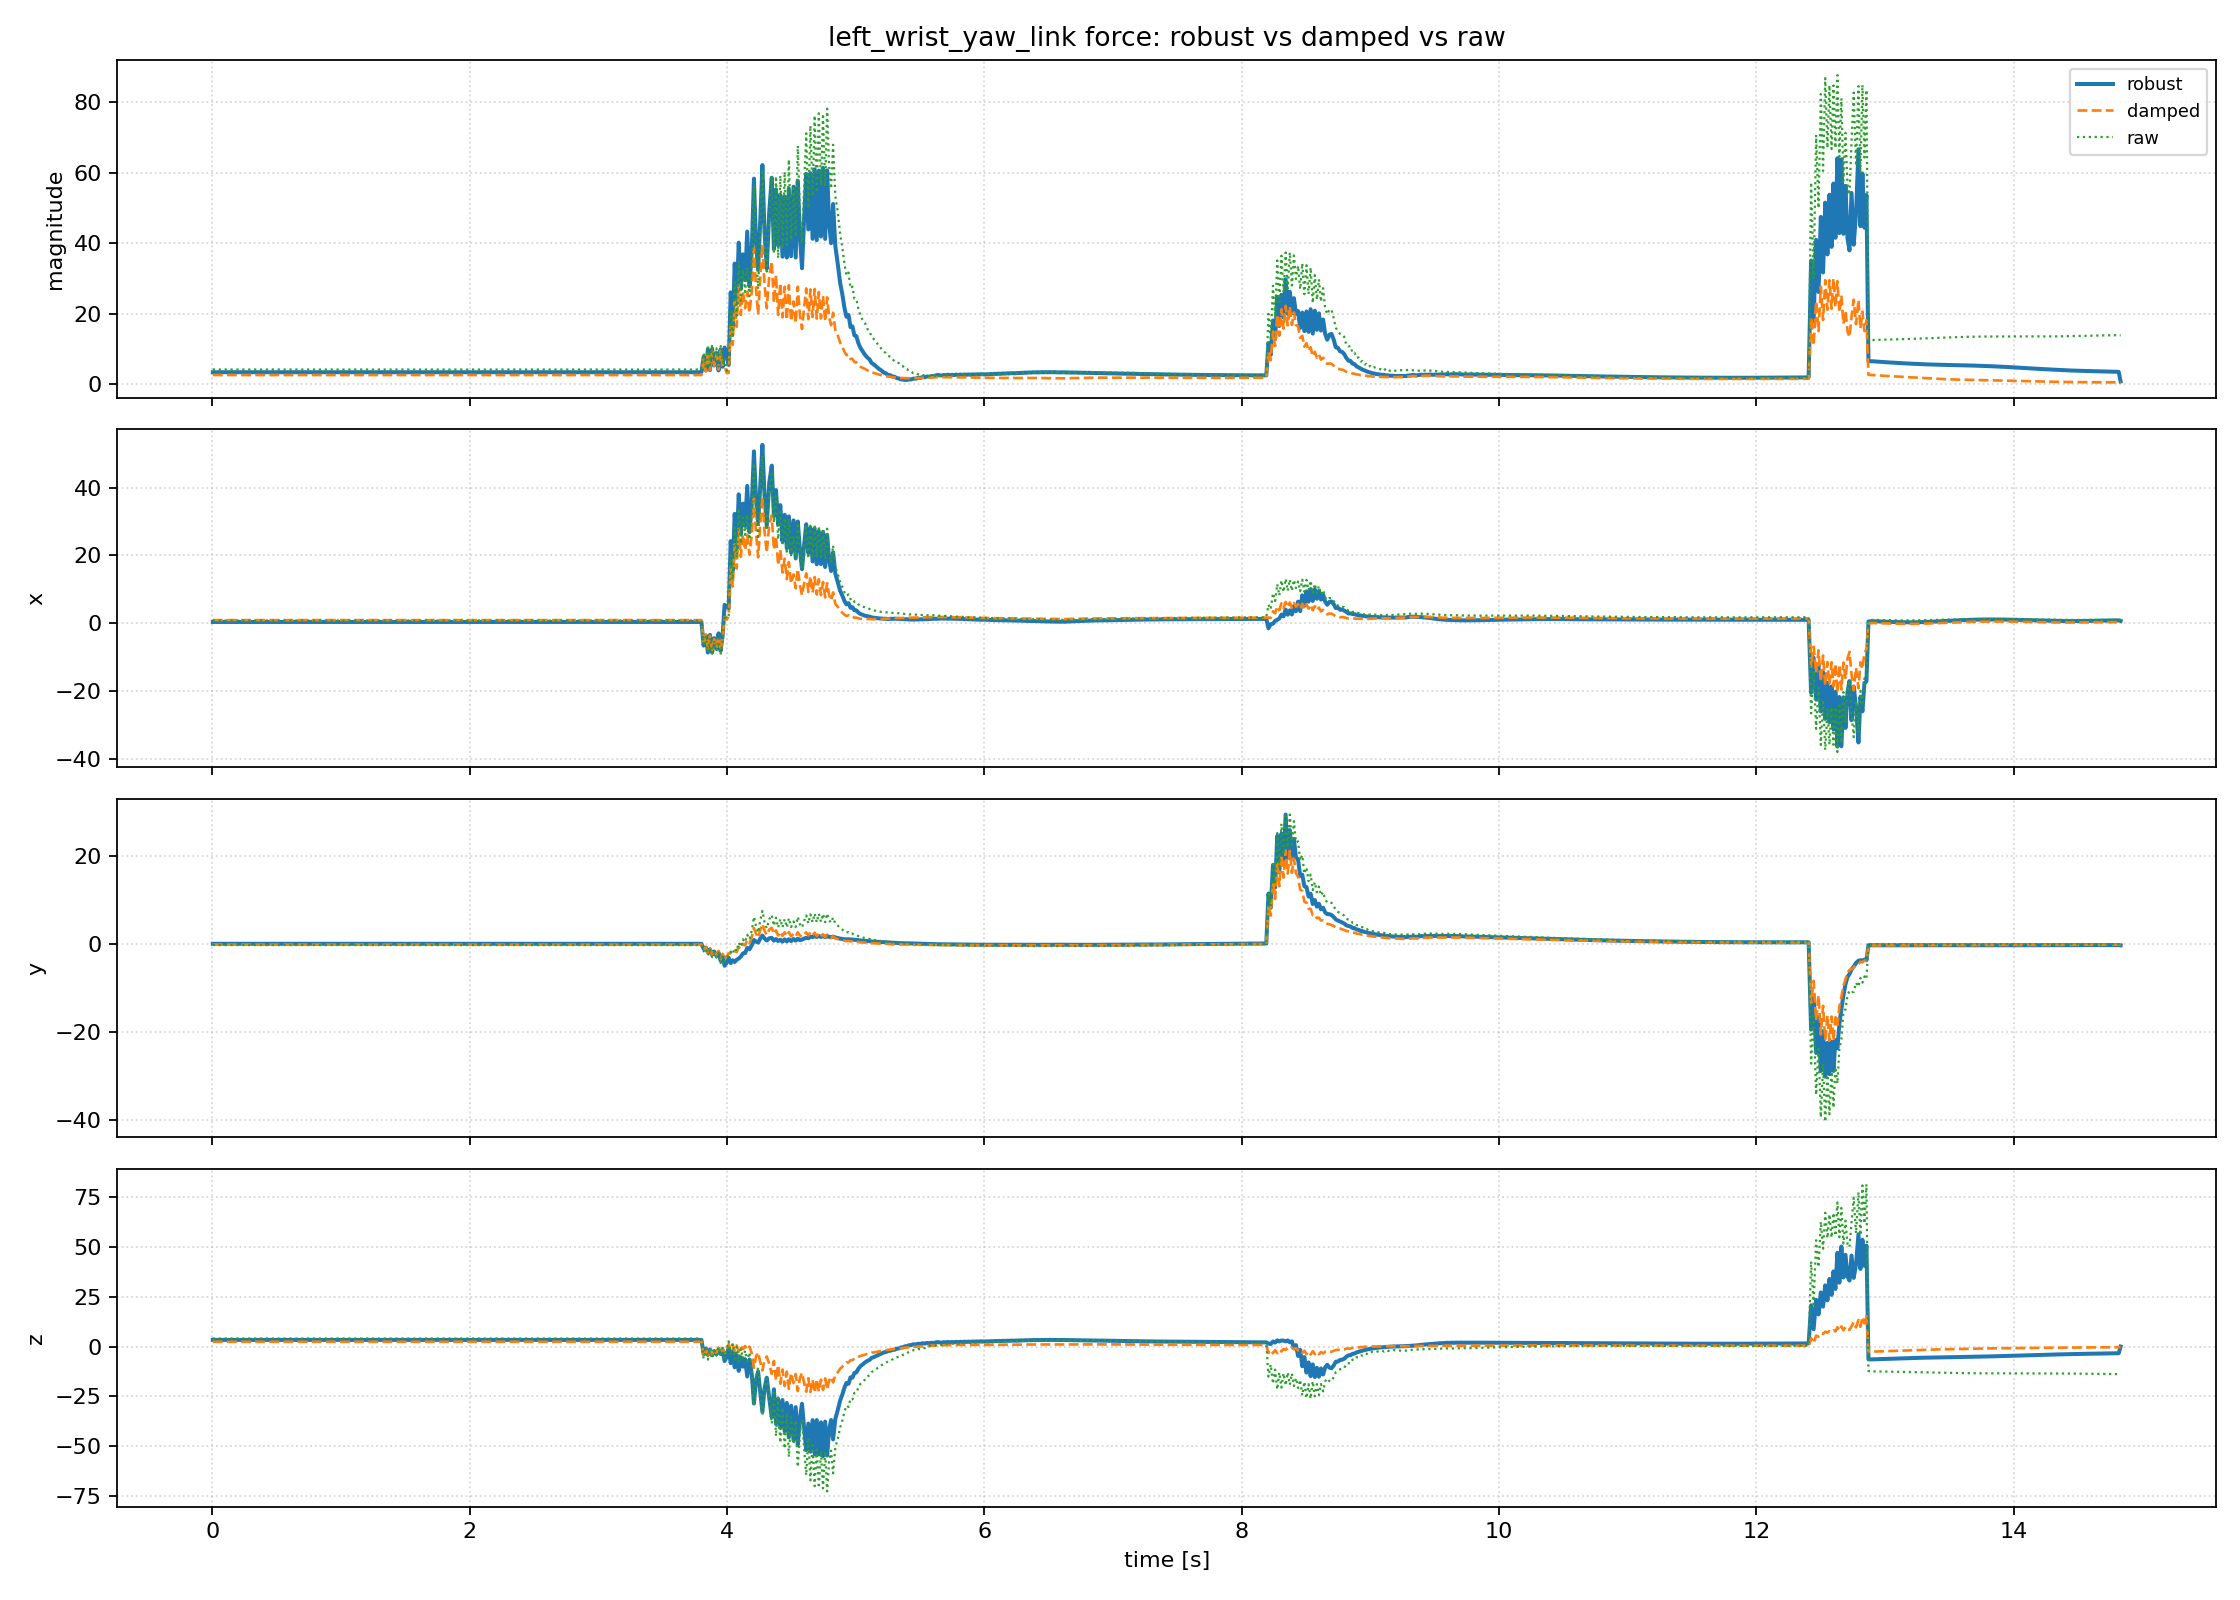
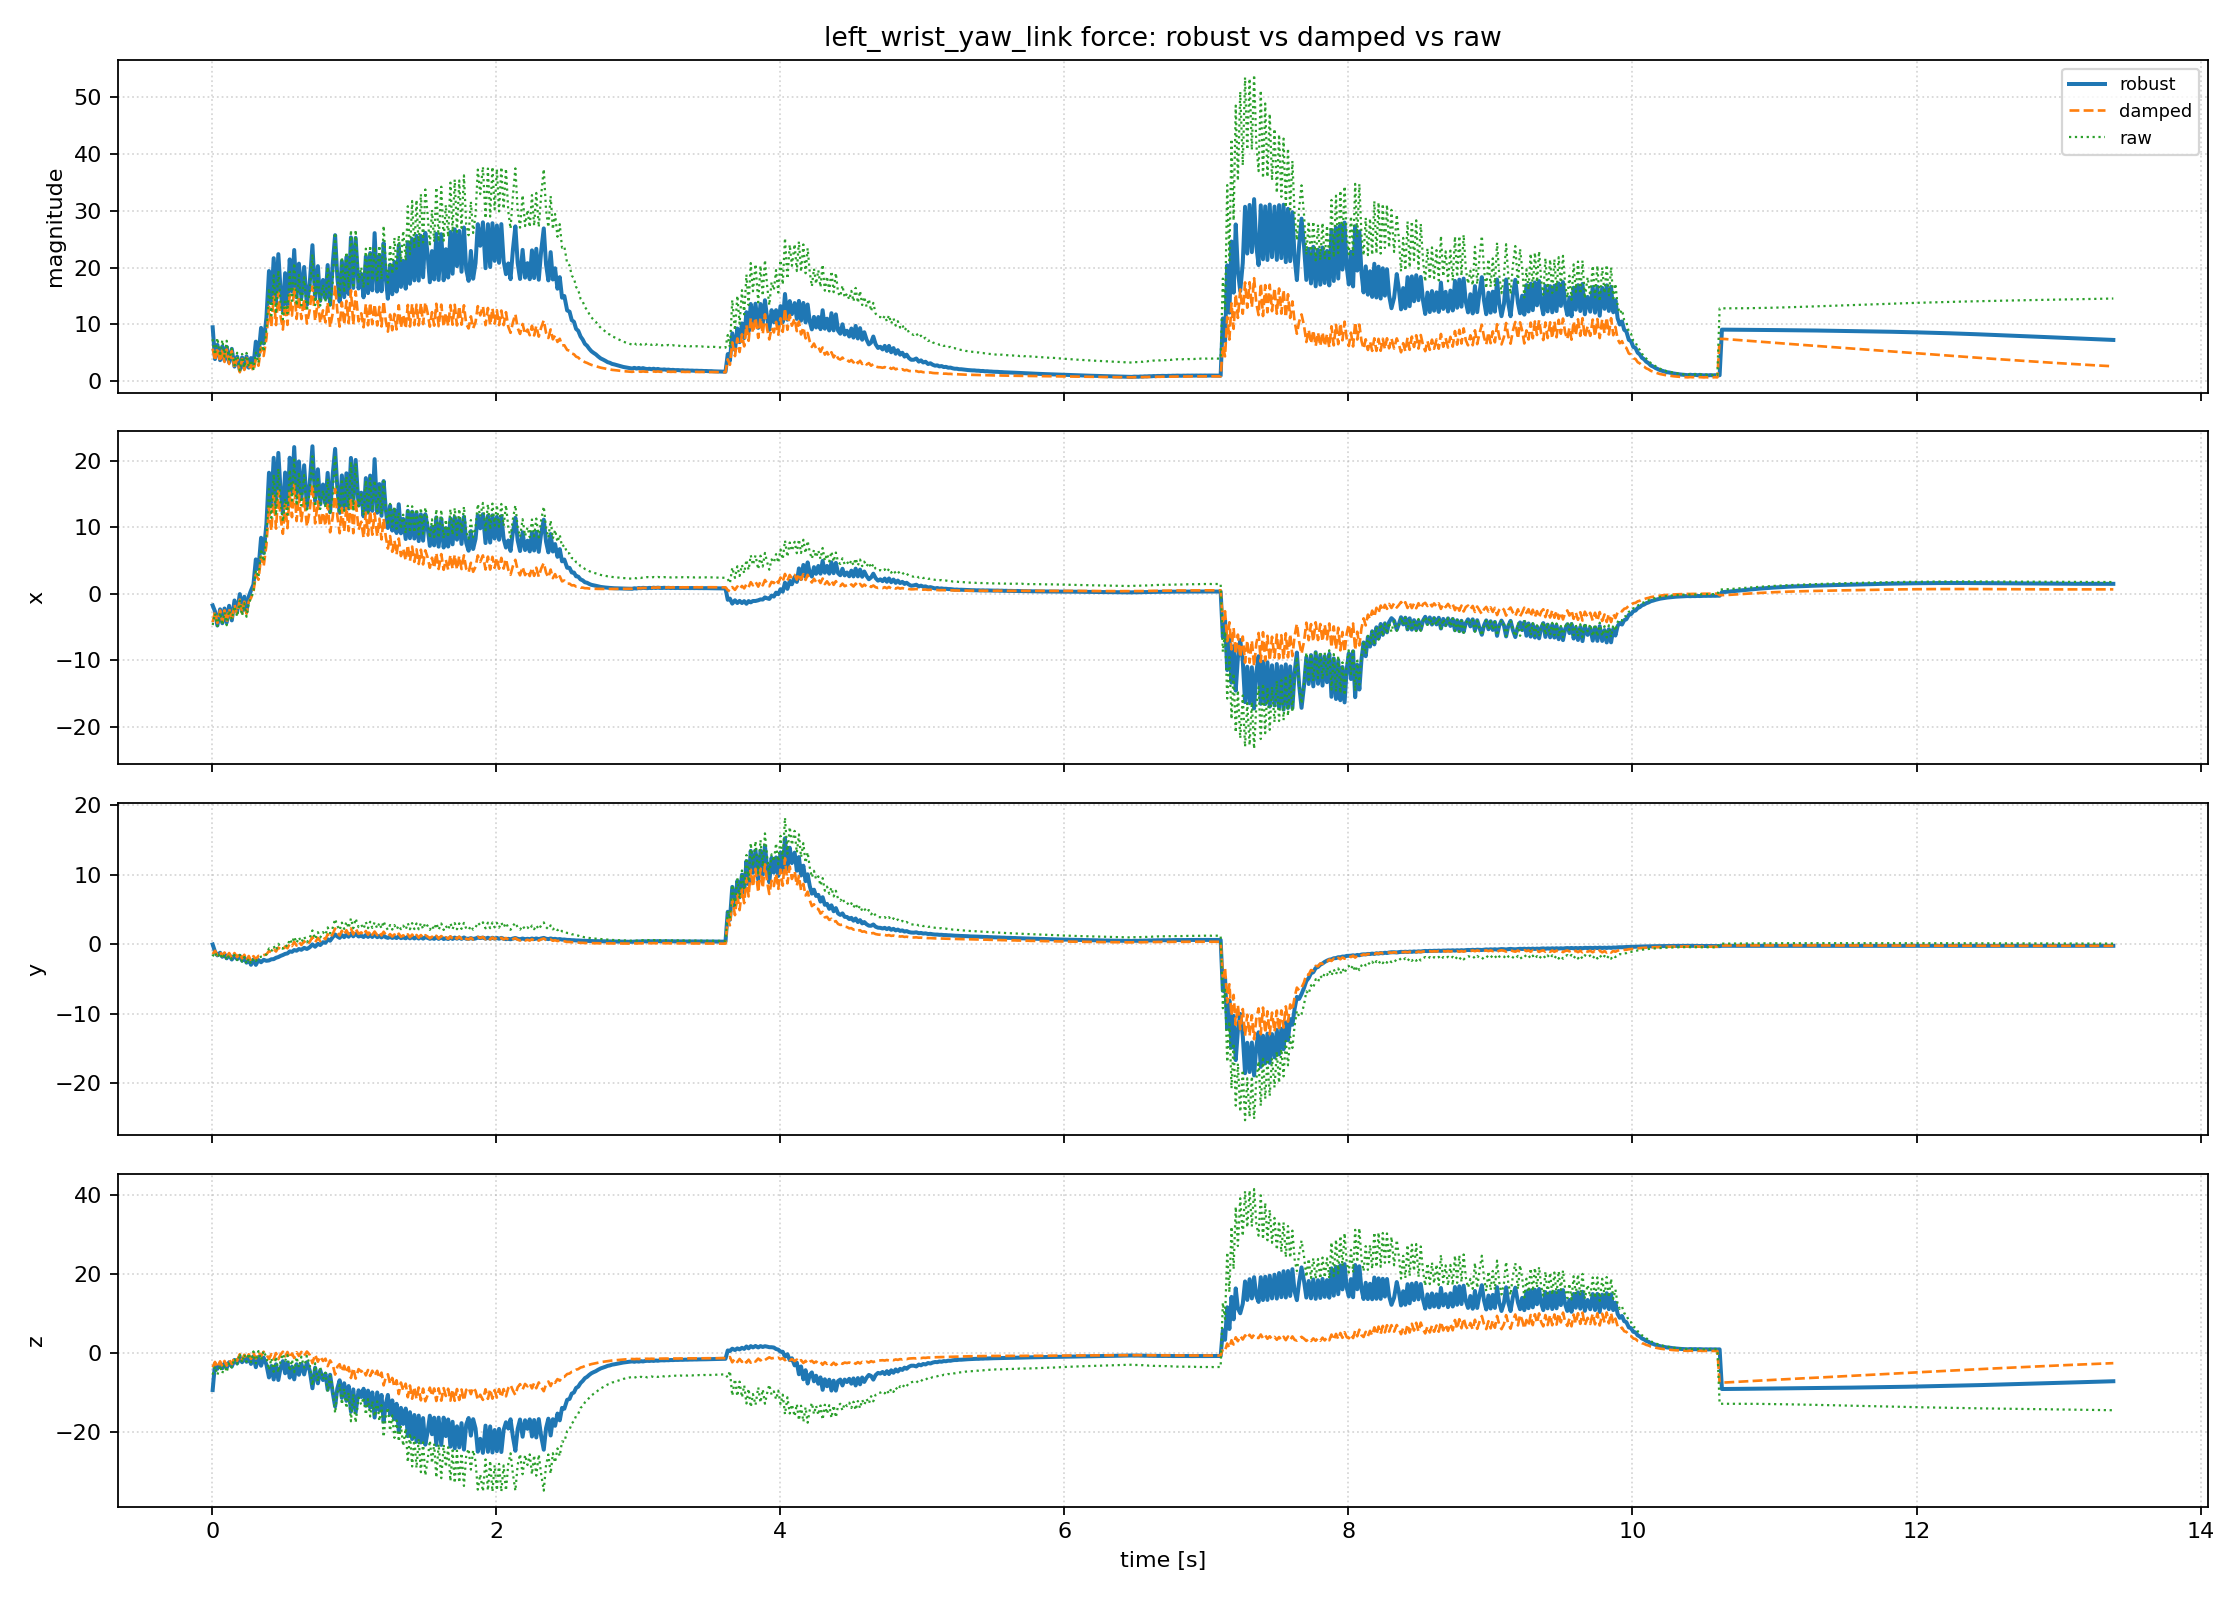
:construction: Tune moving speed; readings still very off

diff --git a/h12_ros2_controller/example/frame_task_trajectory.py b/h12_ros2_controller/example/frame_task_trajectory.py
@@ -158,6 +158,16 @@ def max_frame_error(controller, frame_names):
     return max(linear_errors), max(angular_errors)
 
 
+def apply_scaled_velocity_step(controller, vel, speed_scale):
+    '''Scale the IK command before sending it to the robot'''
+    # keep the motion slower without changing the underlying solver
+    vel = controller._limit_joint_vel(speed_scale * vel)
+    controller.ik_solver.integrate(vel)
+    controller._apply_joint_position(controller.ik_solver.q)
+    controller.update_robot_model()
+    return vel
+
+
 def run_control_loop(controller, controller_cfg, step_fn, error_fn, timeout):
     '''Run IK convergence followed by steady-state hold'''
     threshold_ik = controller_cfg['threshold_ik']
@@ -189,13 +199,15 @@ def run_control_loop(controller, controller_cfg, step_fn, error_fn, timeout):
     return ik_converged and steady_state_converged
 
 
-def execute_config_waypoint(controller, controller_cfg, waypoint, timeout):
+def execute_config_waypoint(controller, controller_cfg, waypoint, timeout,
+                            speed_scale=1.0):
     '''Move controller to one named config waypoint'''
     q_reduced = NAMED_CONFIGS[waypoint.config_name]
     controller.update_ik_solver()
 
     def step_fn():
-        return controller.goto_reduced_configuration(q_reduced)
+        vel = controller.ik_solver.goto_reduced_configuration(q_reduced)
+        return apply_scaled_velocity_step(controller, vel, speed_scale)
 
     def error_fn():
         error = np.max(np.abs(controller.reduced_configuration_error))
@@ -205,13 +217,15 @@ def execute_config_waypoint(controller, controller_cfg, waypoint, timeout):
     return run_control_loop(controller, controller_cfg, step_fn, error_fn, timeout)
 
 
-def execute_frame_waypoint(controller, controller_cfg, waypoint, timeout, com=False):
+def execute_frame_waypoint(controller, controller_cfg, waypoint, timeout,
+                           com=False, speed_scale=1.0):
     '''Move controller to one multi-frame waypoint'''
     add_frame_waypoint_tasks(controller, waypoint)
     controller.update_ik_solver()
 
     def step_fn():
-        return controller.control_step_reduced(com=com)
+        vel = controller.ik_solver.ik_step_reduced(com=com)
+        return apply_scaled_velocity_step(controller, vel, speed_scale)
 
     def error_fn():
         linear_error, angular_error = max_frame_error(controller, waypoint.frame_names)
@@ -225,13 +239,19 @@ def execute_frame_waypoint(controller, controller_cfg, waypoint, timeout, com=Fa
 
 
 def run_trajectory(controller, controller_cfg, waypoints, duration=0.0,
-                   pause=0.0, com=False):
+                   pause=0.0, com=False, speed_scale=1.0):
     '''Execute every waypoint in order'''
     timeout = duration if duration > 0.0 else controller_cfg['timeout']
     for idx, waypoint in enumerate(waypoints, start=1):
         if waypoint.is_config:
             print(f'Waypoint {idx}: named config {waypoint.config_name}')
-            success = execute_config_waypoint(controller, controller_cfg, waypoint, timeout)
+            success = execute_config_waypoint(
+                controller,
+                controller_cfg,
+                waypoint,
+                timeout,
+                speed_scale=speed_scale,
+            )
         else:
             print(f'Waypoint {idx}: frames {waypoint.frame_names}')
             success = execute_frame_waypoint(
@@ -240,6 +260,7 @@ def run_trajectory(controller, controller_cfg, waypoints, duration=0.0,
                 waypoint,
                 timeout,
                 com=com,
+                speed_scale=speed_scale,
             )
 
         if not success:
@@ -251,7 +272,7 @@ def run_trajectory(controller, controller_cfg, waypoints, duration=0.0,
 
 
 def main(traj, config_name='debug.yaml', duration=0.0,
-         pause=0.0, com=False, visualize=True):
+         pause=0.0, com=False, speed_scale=0.4, visualize=True):
     # load trajectory before commanding the robot
     traj_path = resolve_trajectory_path(traj)
     waypoints = load_trajectory(traj_path)
@@ -268,6 +289,7 @@ def main(traj, config_name='debug.yaml', duration=0.0,
             duration=duration,
             pause=pause,
             com=com,
+            speed_scale=speed_scale,
         )
     finally:
         print('Shutting down...')
@@ -299,6 +321,12 @@ if __name__ == '__main__':
         default=0.0,
         help='Pause between waypoints in seconds',
     )
+    parser.add_argument(
+        '--speed-scale',
+        type=float,
+        default=0.4,
+        help='Scale IK motion commands for slower tracking',
+    )
     parser.add_argument('--com', action='store_true', help='Use center of mass control')
     parser.add_argument('--no-viz', action='store_true', help='Disable controller visualizer')
     args = parser.parse_args()
@@ -309,5 +337,6 @@ if __name__ == '__main__':
         duration=args.duration,
         pause=args.pause,
         com=args.com,
+        speed_scale=args.speed_scale,
         visualize=not args.no_viz,
     )
